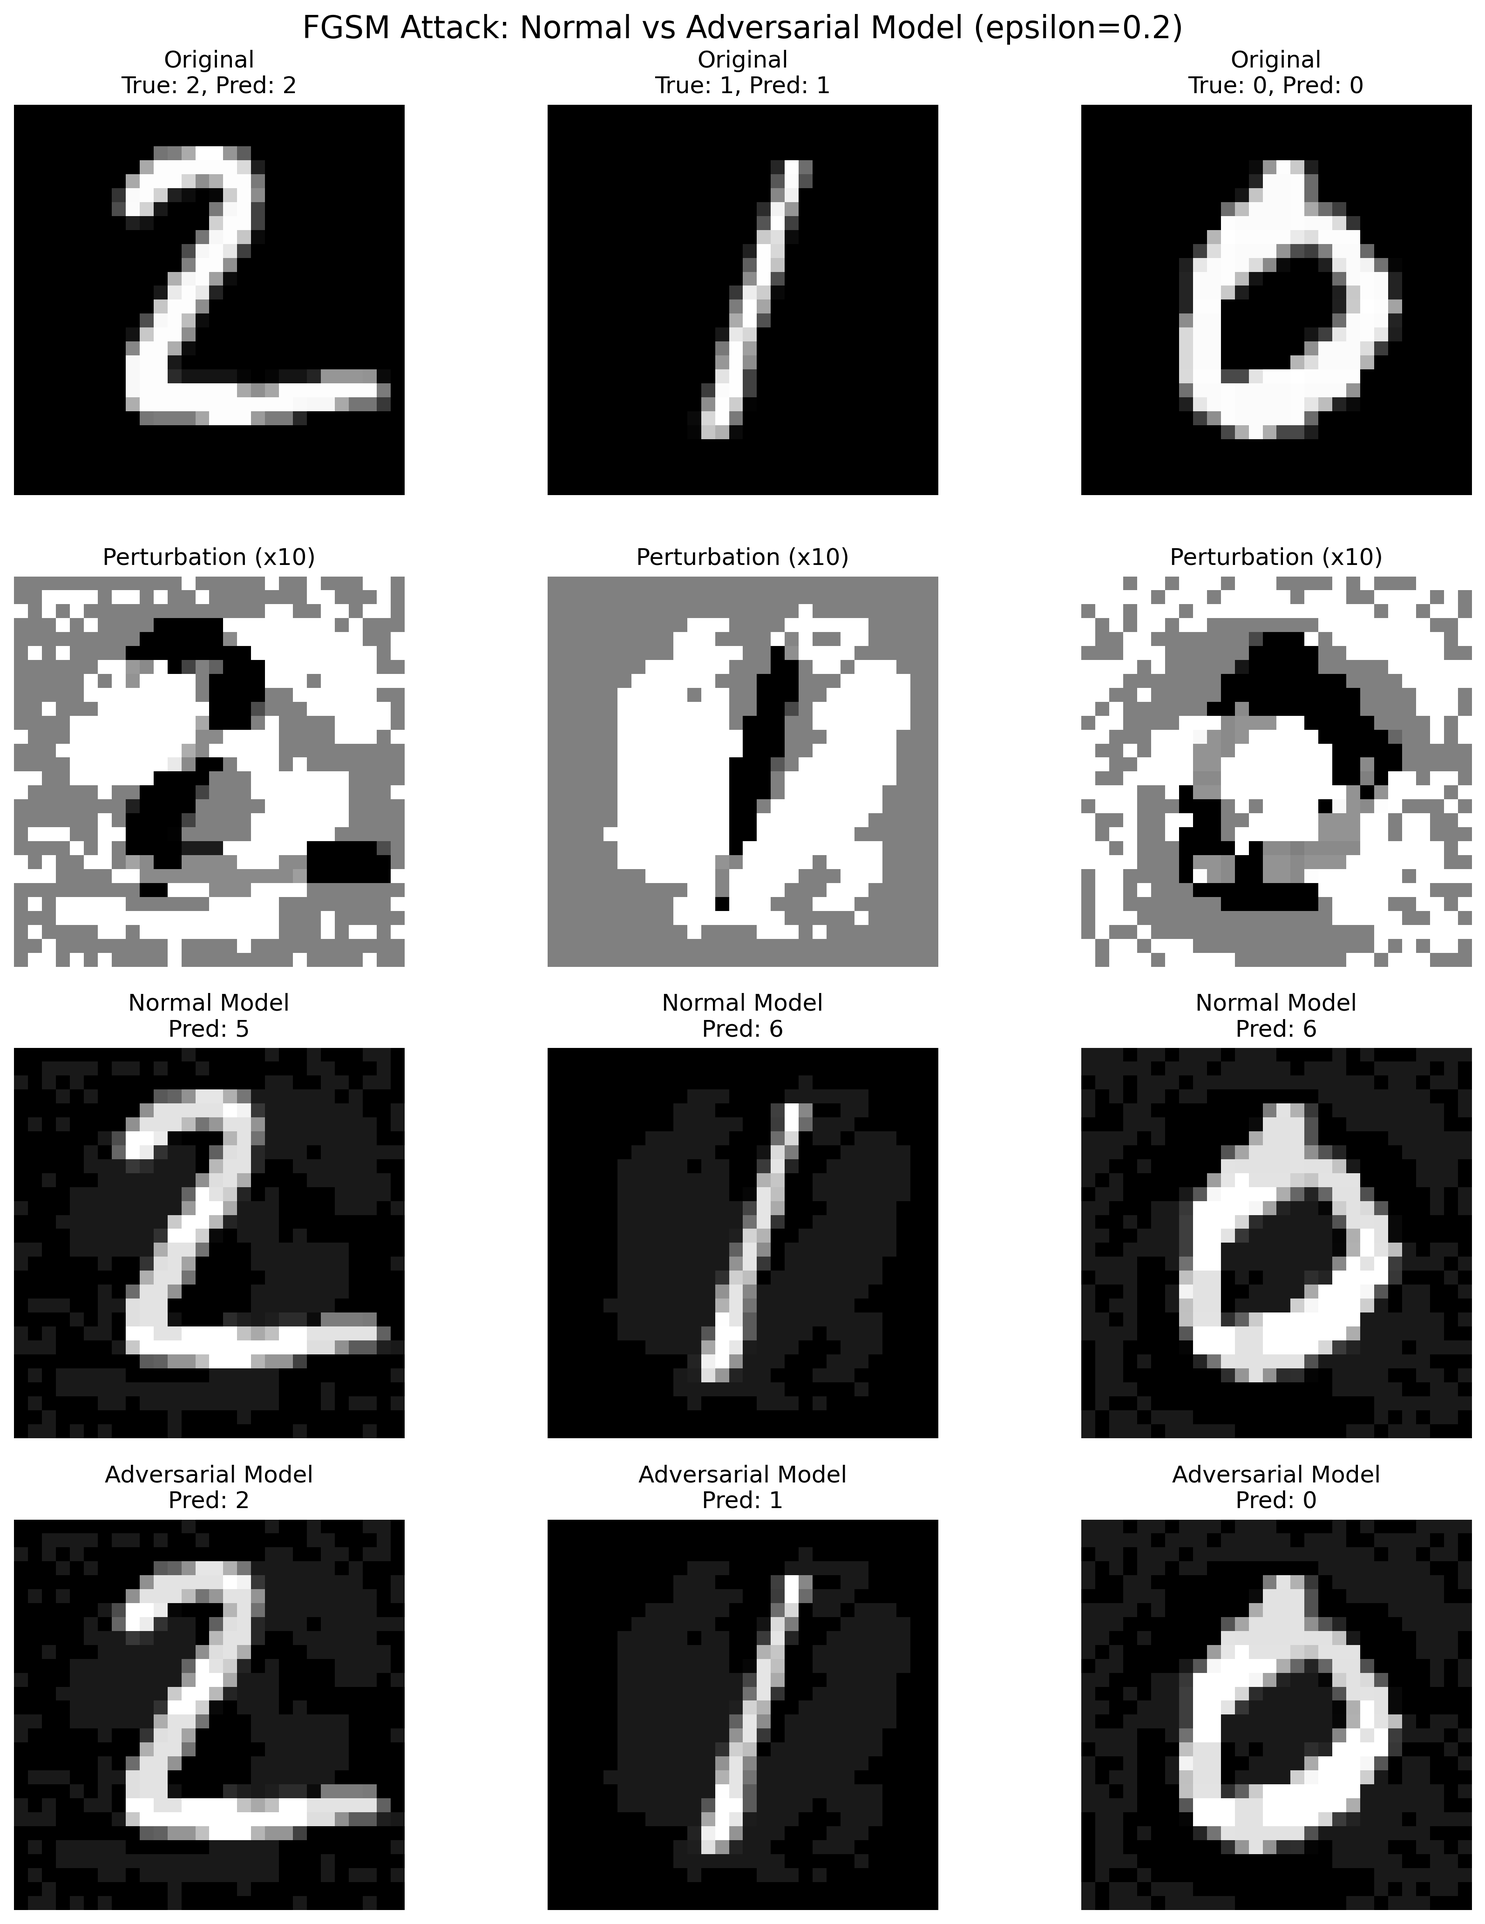
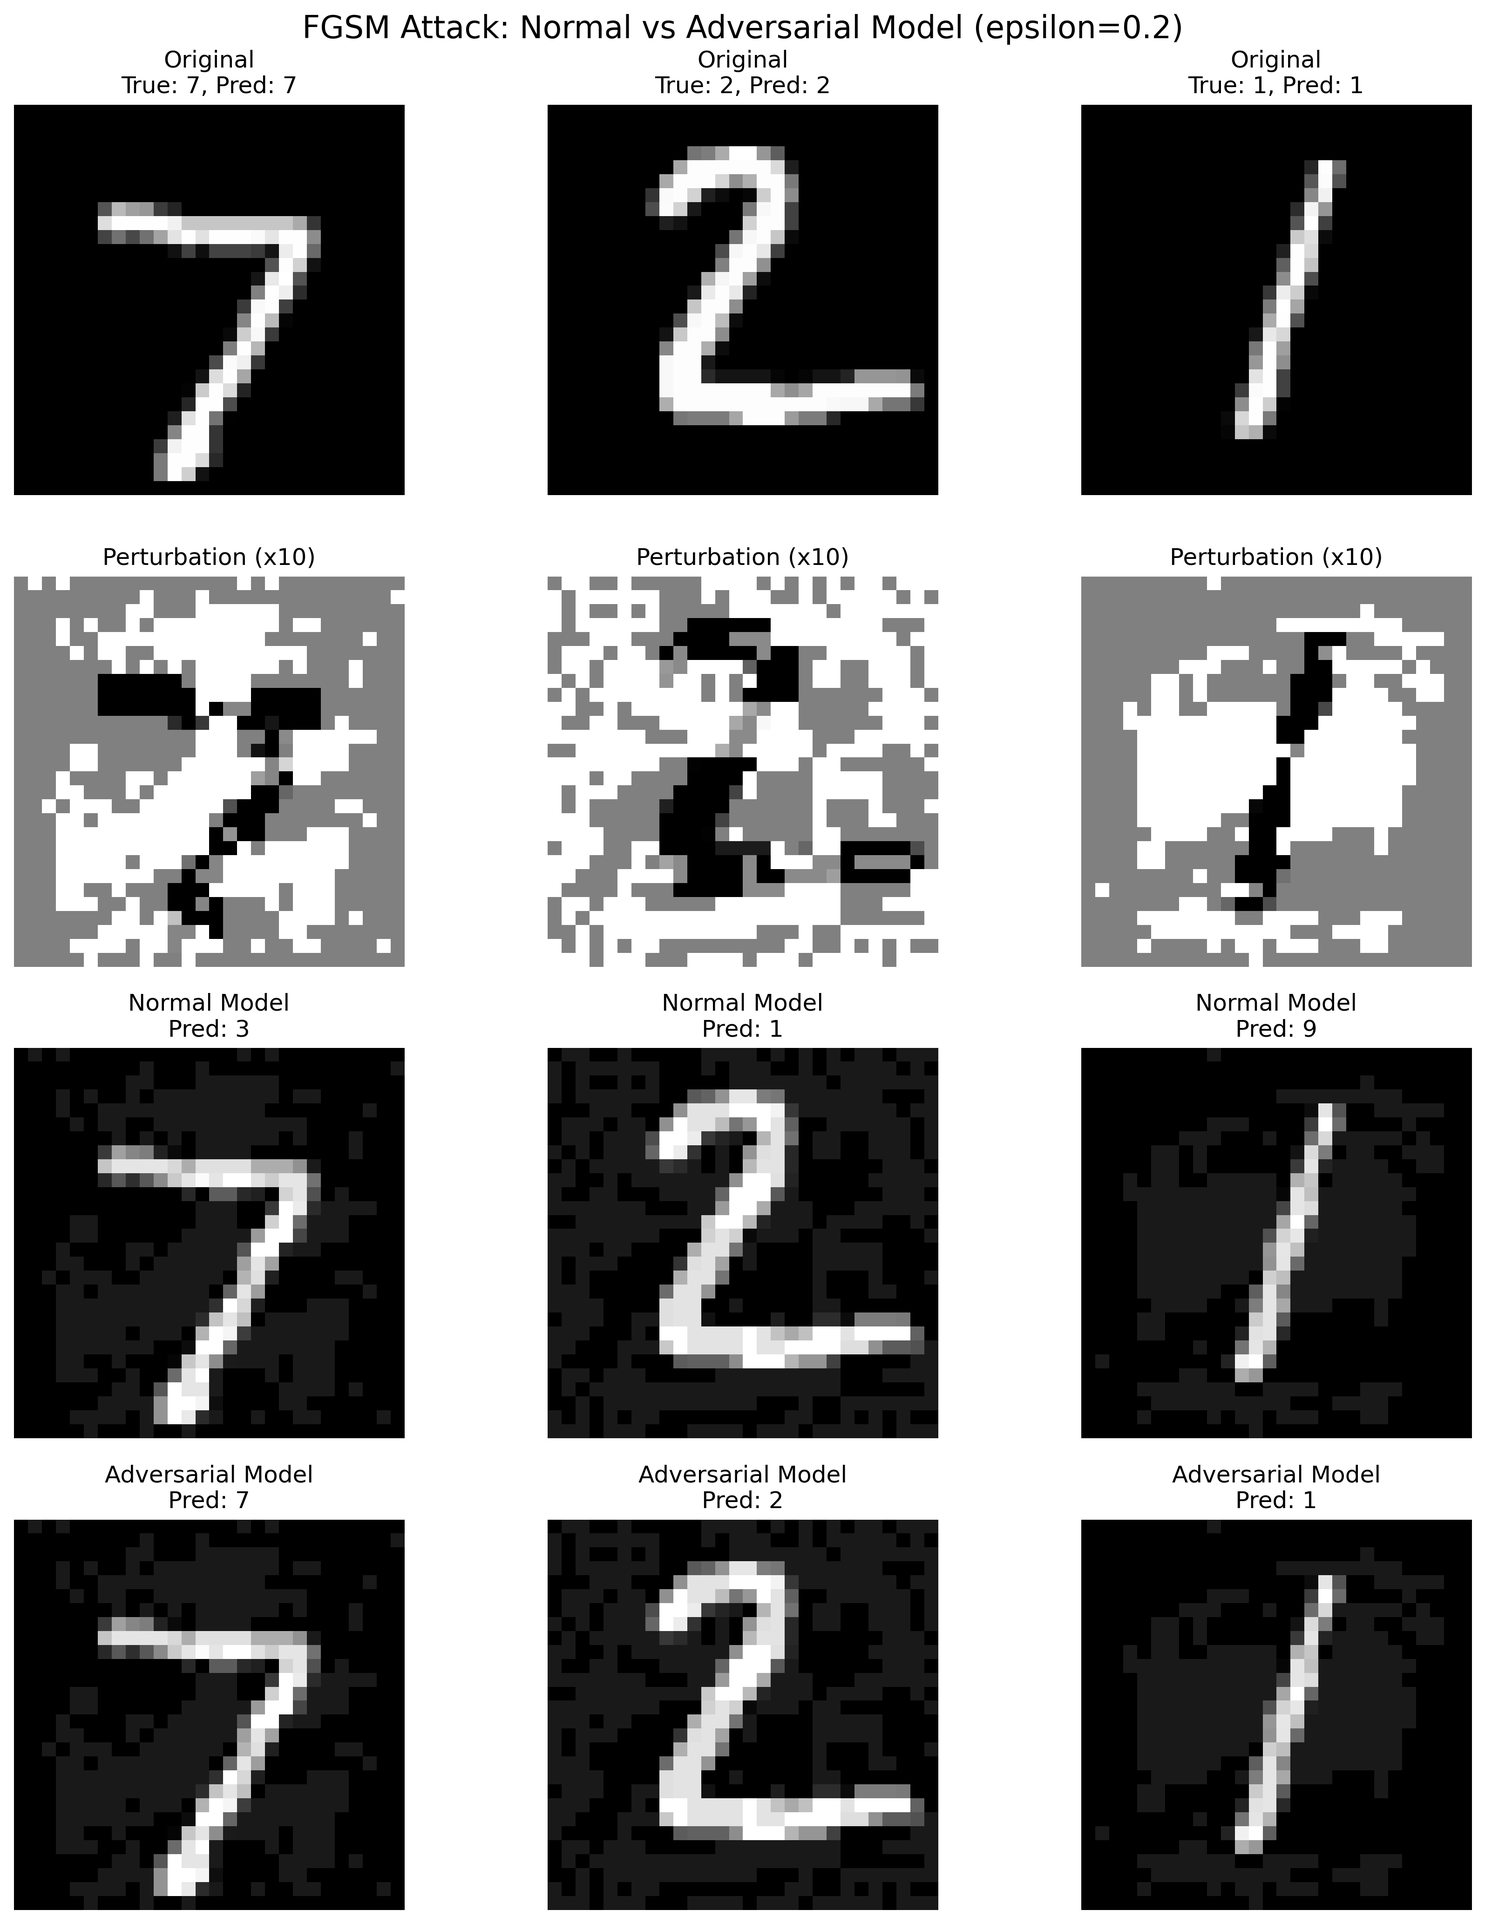
新增训练与验证日志、训练曲线，更新10轮实验结果

diff --git a/train_FGSM_ with_matplotlib.py b/train_FGSM_ with_matplotlib.py
@@ -1,3 +1,4 @@
+import csv
 import random
 from pathlib import Path
 import numpy as np
@@ -5,7 +6,7 @@ import torch
 import torch.nn as nn
 import torch.optim as optim
 from torchvision import datasets, transforms
-from torch.utils.data import DataLoader
+from torch.utils.data import DataLoader, random_split
 import matplotlib.pyplot as plt
 
 # ==================== 随机种子设置 ====================
@@ -31,7 +32,8 @@ print(f"随机种子已设置为: {SEED}")
 PROJECT_DIR = Path(__file__).resolve().parent
 BATCH_SIZE = 64
 LR = 0.001
-EPOCHS = 3
+EPOCHS = 10
+VALIDATION_SIZE = 6000
 EPSILON = 0.2  # 在归一化后的 [-1, 1] 空间施加扰动；对应原始 [0, 1] 空间的 0.1。
 
 device = torch.device("cuda" if torch.cuda.is_available() else "cpu")
@@ -43,8 +45,14 @@ transform = transforms.Compose([
     transforms.Normalize((0.5,), (0.5,))  # (x - 0.5) / 0.5，将像素映射到 [-1, 1]。
 ])
 
-train_loader = DataLoader(datasets.MNIST(str(PROJECT_DIR / 'data'), train=True, download=True, transform=transform),
-                          batch_size=BATCH_SIZE, shuffle=True)
+mnist_train = datasets.MNIST(str(PROJECT_DIR / 'data'), train=True, download=True, transform=transform)
+# 独立随机源固定划分；两个模型共享同一训练/验证划分，测试集不参与逐轮评估。
+train_dataset, validation_dataset = random_split(
+    mnist_train, [len(mnist_train) - VALIDATION_SIZE, VALIDATION_SIZE],
+    generator=torch.Generator().manual_seed(SEED)
+)
+train_loader = DataLoader(train_dataset, batch_size=BATCH_SIZE, shuffle=True)
+validation_loader = DataLoader(validation_dataset, batch_size=1000, shuffle=False)
 test_loader = DataLoader(datasets.MNIST(str(PROJECT_DIR / 'data'), train=False, transform=transform),
                          batch_size=1000, shuffle=False)
 
@@ -92,6 +100,9 @@ def fgsm_attack(model, criterion, images, labels, epsilon):
 def train_model(model, train_loader, optimizer, criterion, device, use_adversarial):
     # use_adversarial=False：干净样本训练；True：仅对抗样本训练。
     model.train()
+    total_loss = 0.0
+    correct = 0
+    total = 0
     for images, labels in train_loader:
         images, labels = images.to(device), labels.to(device)
 
@@ -103,16 +114,25 @@ def train_model(model, train_loader, optimizer, criterion, device, use_adversari
         optimizer.zero_grad()
         outputs = model(images)
         loss = criterion(outputs, labels)
+        # 记录参数更新前的批次指标；对抗训练时两项指标均基于对抗样本。
+        batch_size = labels.size(0)
+        total_loss += loss.item() * batch_size
+        correct += (outputs.argmax(dim=1) == labels).sum().item()
+        total += batch_size
         loss.backward()
         optimizer.step()
 
+    return total_loss / total, 100 * correct / total
+
 # ==================== 6. 评估函数 ====================
-def evaluate_model(model, test_loader, criterion, device, epsilon=EPSILON):
+def evaluate_model(model, test_loader, criterion, device, epsilon=EPSILON,
+                   return_clean_loss=False):
     # eval() 设置评估模式，不会禁用梯度；FGSM 仍需要输入梯度。
     model.eval()
     correct_clean = 0
     correct_adv = 0
     total = 0
+    clean_loss_sum = 0.0
 
 
     for images, labels in test_loader:
@@ -121,6 +141,7 @@ def evaluate_model(model, test_loader, criterion, device, epsilon=EPSILON):
         with torch.no_grad():
             # 1. 干净数据准确率
             outputs_clean = model(images)
+            clean_loss_sum += criterion(outputs_clean, labels).item() * labels.size(0)
             preds_clean = outputs_clean.argmax(dim=1)
             correct_clean += (preds_clean == labels).sum().item()
 
@@ -138,7 +159,71 @@ def evaluate_model(model, test_loader, criterion, device, epsilon=EPSILON):
     # 分母为全部测试样本数，不仅统计原先分类正确的样本。
     clean_acc = 100 * correct_clean / total
     adv_acc = 100 * correct_adv / total
+    if return_clean_loss:
+        return clean_loss_sum / total, clean_acc, adv_acc
     return clean_acc, adv_acc
+
+# ==================== 训练日志与收敛曲线 ====================
+
+def plot_training_history(history, model_name, use_adversarial):
+    """训练损失与干净验证损失的输入口径可能不同，图例明确标注。"""
+    epochs = [row['epoch'] for row in history]
+    train_label = 'FGSM train' if use_adversarial else 'Clean train'
+    fig, axes = plt.subplots(1, 2, figsize=(14, 5))
+    axes[0].plot(epochs, [row['train_loss'] for row in history], label=train_label)
+    axes[0].plot(epochs, [row['validation_loss'] for row in history], label='Clean validation')
+    axes[0].set_ylabel('Mean cross-entropy loss')
+    axes[0].set_title('Loss')
+    axes[1].plot(epochs, [row['train_accuracy'] for row in history], label=train_label)
+    axes[1].plot(epochs, [row['validation_accuracy'] for row in history], label='Clean validation')
+    axes[1].plot(epochs, [row['fgsm_validation_accuracy'] for row in history],
+                 label=f'FGSM validation (epsilon={EPSILON})')
+    axes[1].set_ylabel('Accuracy (%)')
+    axes[1].set_ylim(0, 100)
+    axes[1].set_title('Accuracy')
+    for ax in axes:
+        ax.set_xlabel('Epoch')
+        ax.set_xticks(epochs)
+        ax.grid(True, linestyle='--', alpha=0.6)
+        ax.legend()
+    fig.suptitle(f'{model_name.title()} model training history')
+    fig.tight_layout()
+    fig.savefig(PROJECT_DIR / f'{model_name}_training_curve.png', dpi=300, bbox_inches='tight')
+    plt.close(fig)
+
+
+def train_with_history(model, optimizer, criterion, device, use_adversarial, model_name,
+                       train_loader, validation_loader):
+    """逐轮落盘；Accuracy 单位为百分比，Loss 按样本数加权平均。"""
+    fields = ['epoch', 'train_loss', 'train_accuracy', 'validation_loss',
+              'validation_accuracy', 'fgsm_validation_accuracy', 'train_input', 'epsilon']
+    history = []
+    log_path = PROJECT_DIR / f'{model_name}_training_log.csv'
+    with log_path.open('w', newline='', encoding='utf-8') as log_file:
+        writer = csv.DictWriter(log_file, fieldnames=fields)
+        writer.writeheader()
+        for epoch in range(1, EPOCHS + 1):
+            train_loss, train_acc = train_model(
+                model, train_loader, optimizer, criterion, device, use_adversarial
+            )
+            val_loss, val_acc, val_adv_acc = evaluate_model(
+                model, validation_loader, criterion, device, return_clean_loss=True
+            )
+            row = dict(epoch=epoch, train_loss=train_loss, train_accuracy=train_acc,
+                       validation_loss=val_loss, validation_accuracy=val_acc,
+                       fgsm_validation_accuracy=val_adv_acc,
+                       train_input='fgsm' if use_adversarial else 'clean', epsilon=EPSILON)
+            history.append(row)
+            writer.writerow(row)
+            log_file.flush()
+            train_kind = 'FGSM' if use_adversarial else 'Clean'
+            print(f'Epoch {epoch}/{EPOCHS} | {train_kind} Train Loss: {train_loss:.4f}'
+                  f' | Train Accuracy: {train_acc:.2f}% | Clean Validation Loss: {val_loss:.4f}'
+                  f' | Clean Validation Accuracy: {val_acc:.2f}%'
+                  f' | FGSM Validation Accuracy: {val_adv_acc:.2f}%')
+    plot_training_history(history, model_name, use_adversarial)
+    print(f'训练日志已保存到: {log_path}')
+    return history
 
 # ==================== 7. 主流程：对比实验 ====================
 if __name__ == "__main__":
@@ -151,9 +236,10 @@ if __name__ == "__main__":
     model_normal = VictimNet().to(device)
     optimizer_normal = optim.Adam(model_normal.parameters(), lr=LR)
 
-    for epoch in range(EPOCHS):
-        train_model(model_normal, train_loader, optimizer_normal, criterion, device, use_adversarial=False)
-        print(f"第 {epoch+1} 轮训练完成")
+    history_normal = train_with_history(
+        model_normal, optimizer_normal, criterion, device, False, 'normal',
+        train_loader, validation_loader
+    )
 
     # ---- 阶段二：重新初始化一个独立模型，只用对抗样本训练（非普通模型微调） ----
     print("\n" + "="*50)
@@ -162,9 +248,10 @@ if __name__ == "__main__":
     model_adv = VictimNet().to(device)
     optimizer_adv = optim.Adam(model_adv.parameters(), lr=LR)
 
-    for epoch in range(EPOCHS):
-        train_model(model_adv, train_loader, optimizer_adv, criterion, device, use_adversarial=True)
-        print(f"第 {epoch+1} 轮训练完成")
+    history_adv = train_with_history(
+        model_adv, optimizer_adv, criterion, device, True, 'adv',
+        train_loader, validation_loader
+    )
 
     # state_dict() 提取参数字典，torch.save() 写入文件；同名文件会被覆盖。
     # 不保存优化器状态，供案例脚本加载推理，而非完整恢复训练进度。

diff --git a/README.md b/README.md
@@ -6,10 +6,10 @@
 
 | 配置项 | 当前设置 |
 | --- | --- |
-| 数据集 | MNIST，60,000 张训练图片、10,000 张测试图片 |
+| 数据集 | MNIST 原训练集按种子 42 划分为 54,000 张训练图片、6,000 张验证图片；另有 10,000 张测试图片 |
 | 模型 | 全连接网络：Flatten → Linear(784, 128) → ReLU → Linear(128, 10) |
 | 随机种子 | 42（Python、NumPy、PyTorch） |
-| 训练轮数 | 普通模型与对抗模型各 3 轮 |
+| 训练轮数 | 普通模型与对抗模型各 10 轮（初步设置） |
 | 训练批大小 | 64 |
 | 优化器 | Adam，学习率 0.001 |
 | 损失函数 | 交叉熵损失 |
@@ -28,14 +28,33 @@ FGSM 沿增大分类损失的方向对输入施加一次扰动，不指定某个
 
 ## 实验结果
 
-以下数值来自本次实际运行日志（随机种子 42、两个模型各训练 3 轮、使用 CUDA），不代表多次实验的均值。
+以下数值来自本次实际运行日志：随机种子 42，54,000 张图片用于训练、6,000 张用于验证，两个模型各训练 10 轮，使用 CUDA。测试结果对应第 10 轮结束后保存的权重，不是多次实验的均值，也不是根据验证指标选择的最佳轮次权重。
 
 | 模型 | 正常图片准确率 | 白盒 FGSM 攻击下准确率（ε = 0.2） |
 | --- | ---: | ---: |
-| 普通模型 | 95.10% | 43.95% |
-| 对抗模型 | 91.03% | 71.88% |
+| 普通模型 | 97.11% | 40.06% |
+| 对抗模型 | 90.44% | 71.70% |
 
-本次实验中，对抗模型在 FGSM 攻击下的准确率提高了 27.93 个百分点，正常图片准确率降低了 4.07 个百分点。准确率的分母是全部 10,000 张测试图片，不仅是模型原本分类正确的图片。
+本次实验中，对抗模型在 FGSM 攻击下的准确率提高了 **31.64 个百分点**，正常图片准确率降低了 **6.67 个百分点**。准确率的分母是全部 10,000 张测试图片，不仅是模型原本分类正确的图片。
+
+### 训练过程与收敛情况
+
+每个 Epoch 的完整指标分别保存在 [普通模型日志](normal_training_log.csv) 和 [对抗模型日志](adv_training_log.csv) 中。第 10 轮指标如下，其中验证集与上方最终测试集是不同的数据集。
+
+| 模型 | Train Loss | Train Accuracy | 干净 Validation Loss | 干净 Validation Accuracy | FGSM Validation Accuracy（ε = 0.2） |
+| --- | ---: | ---: | ---: | ---: | ---: |
+| 普通模型 | 0.0584 | 98.12% | 0.1083 | 97.00% | 39.78% |
+| 对抗模型 | 0.9066 | 70.93% | 0.3580 | 90.35% | 70.95% |
+
+普通模型的训练指标基于干净样本，对抗模型的训练指标基于 FGSM 样本，因此两行的 Train Loss 和 Train Accuracy 不能直接作为相同任务下的性能比较。两种模型的干净验证指标均基于同一验证集；FGSM 验证样本则分别针对各模型自身生成。
+
+![普通模型训练曲线](normal_training_curve.png)
+
+普通模型的训练 Loss 从 0.3992 降至 0.0584，后期干净验证准确率稳定在约 97%，表明已接近收敛。第 9 轮的干净验证 Loss 最低（0.1031），验证准确率为 97.07%；第 10 轮 Loss 回升至 0.1083，准确率为 97.00%。单轮回升不足以认定过拟合，仍需观察后续趋势。FGSM 验证准确率在训练过程中有波动，干净分类性能的提升没有带来持续的 FGSM 鲁棒性提升。
+
+![对抗模型训练曲线](adv_training_curve.png)
+
+对抗模型的训练 Loss 从 1.2994 降至 0.9066，FGSM 验证准确率从 65.40% 升至 70.95%，干净验证准确率从 87.52% 升至 90.35%。后期改善速度放缓，但最后一轮的训练 Loss、干净验证 Loss 和两项验证准确率仍有改善，因此暂不能断言已经充分收敛。
 
 ### 鲁棒性曲线：分别针对各模型生成白盒攻击
 
@@ -61,12 +80,20 @@ FGSM 沿增大分类损失的方向对输入施加一次扰动，不指定某个
 
 ## 项目文件
 
+训练时每轮记录 Train Loss/Accuracy、干净 Validation Loss/Accuracy，以及 ε=0.2 的白盒 FGSM Validation Accuracy。Loss 为按样本数加权的平均交叉熵，Accuracy 单位为百分比，分母为相应数据集的全部样本数。
+
+普通模型的训练指标基于干净样本，对抗模型的训练指标基于 FGSM 样本；验证 Loss 始终基于干净样本。训练指标在各批参数更新前累计，验证指标在整轮训练后计算，因此不能将两者的差值直接视为泛化差距。CSV 的 `train_input` 与 `epsilon` 列标注训练输入类型和扰动强度。
+
+CSV 每轮写入并刷新，训练曲线在该模型训练结束后生成。结合 Loss 是否趋于平稳、验证准确率是否稳定，以及验证 Loss 是否反弹判断收敛或过拟合；10 轮并不保证充分收敛。测试集仅用于训练完成后的准确率对比及鲁棒性曲线，不用于逐轮监控。
+
 | 文件或目录 | 作用 |
 | --- | --- |
 | `train_FGSM_ with_matplotlib.py` | 训练两个模型、保存权重、评估准确率并绘制鲁棒性曲线 |
 | `FGSM_ normal_defense_visualize.py` | 加载两个模型的权重，生成并展示案例图，不进行训练 |
 | `normal_model.pth` | 普通模型的参数字典 |
 | `adv_model.pth` | 对抗模型的参数字典 |
+| `normal_training_log.csv` / `adv_training_log.csv` | 两个模型各自的逐轮训练及验证指标 |
+| `normal_training_curve.png` / `adv_training_curve.png` | 两个模型各自的 Loss 和 Accuracy 训练曲线 |
 | `robustness_curve.png` | 不同攻击强度下的准确率曲线 |
 | `attack_visualization.png` | 条件筛选后的攻击与预测案例 |
 | `data/` | MNIST 数据集；训练脚本在缺少数据时下载 |
@@ -78,7 +105,7 @@ FGSM 沿增大分类损失的方向对输入施加一次扰动，不指定某个
 ### 在 VS Code 中运行
 
 1. 打开本项目文件夹，确认 Python 解释器为已安装 PyTorch 的 Anaconda 环境。
-2. 打开 `train_FGSM_ with_matplotlib.py`，点击“运行 Python 文件”。训练完成后会保存两个 `.pth` 文件和曲线图。
+2. 打开 `train_FGSM_ with_matplotlib.py`，点击“运行 Python 文件”。每轮写入 CSV 日志；各模型训练结束后生成训练曲线，全部训练完成后保存两个 `.pth` 文件，再进行最终测试和鲁棒性曲线绘制。
 3. 关闭弹出的曲线图窗口，等待脚本退出，再运行 `FGSM_ normal_defense_visualize.py`，生成案例图。
 
 也可以在已激活对应环境的终端中依次运行，文件名含空格，请保留引号：
@@ -90,7 +117,7 @@ python "FGSM_ normal_defense_visualize.py"
 
 以后仅重新生成案例图时，只需运行第二个脚本。缺少任意权重文件时，案例脚本会明确提示先运行训练脚本。
 
-重新运行训练脚本会覆盖同名权重和曲线图，之后应重新生成案例图，确保两张图对应同一组模型。数据、权重和输出图片均以脚本所在目录为基准，从其他目录启动也会使用相同路径。
+重新运行训练脚本会覆盖同名 CSV 日志、权重和曲线图，之后应重新生成案例图，确保案例图与鲁棒性曲线对应同一组模型。数据、日志、权重和输出图片均以脚本所在目录为基准，从其他目录启动也会使用相同路径。
 
 ### 权重保存与加载
 
